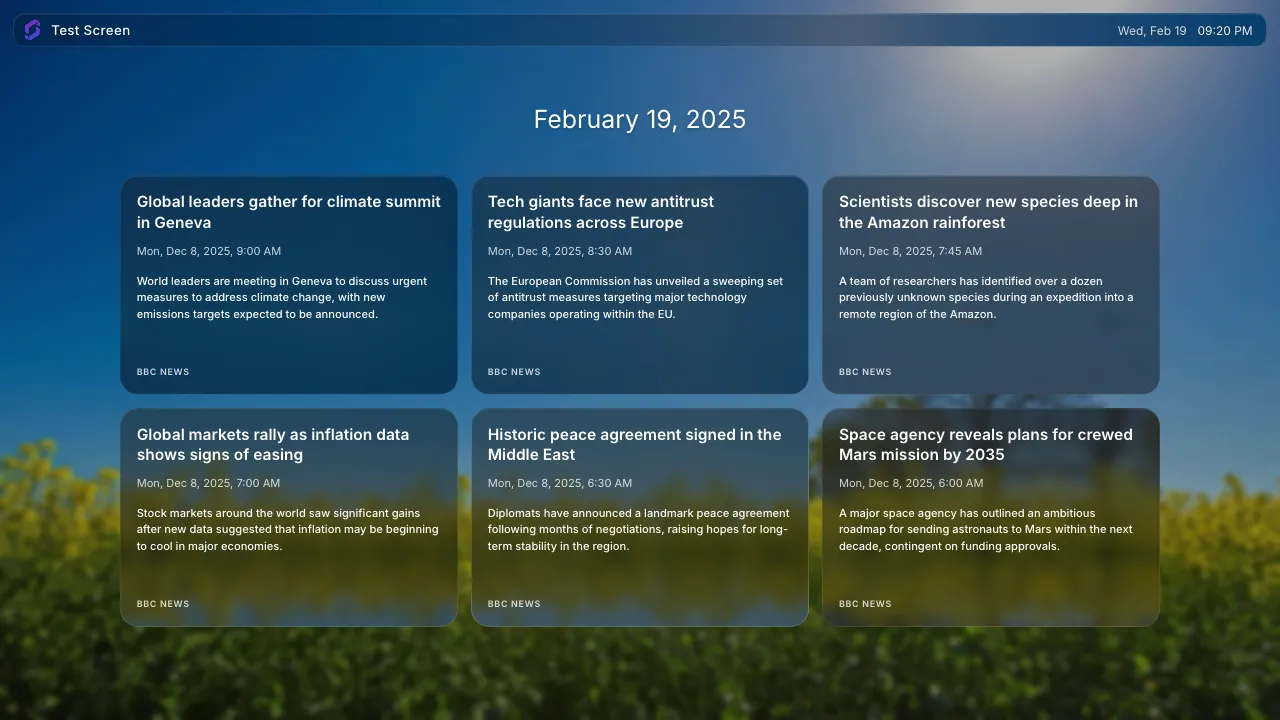
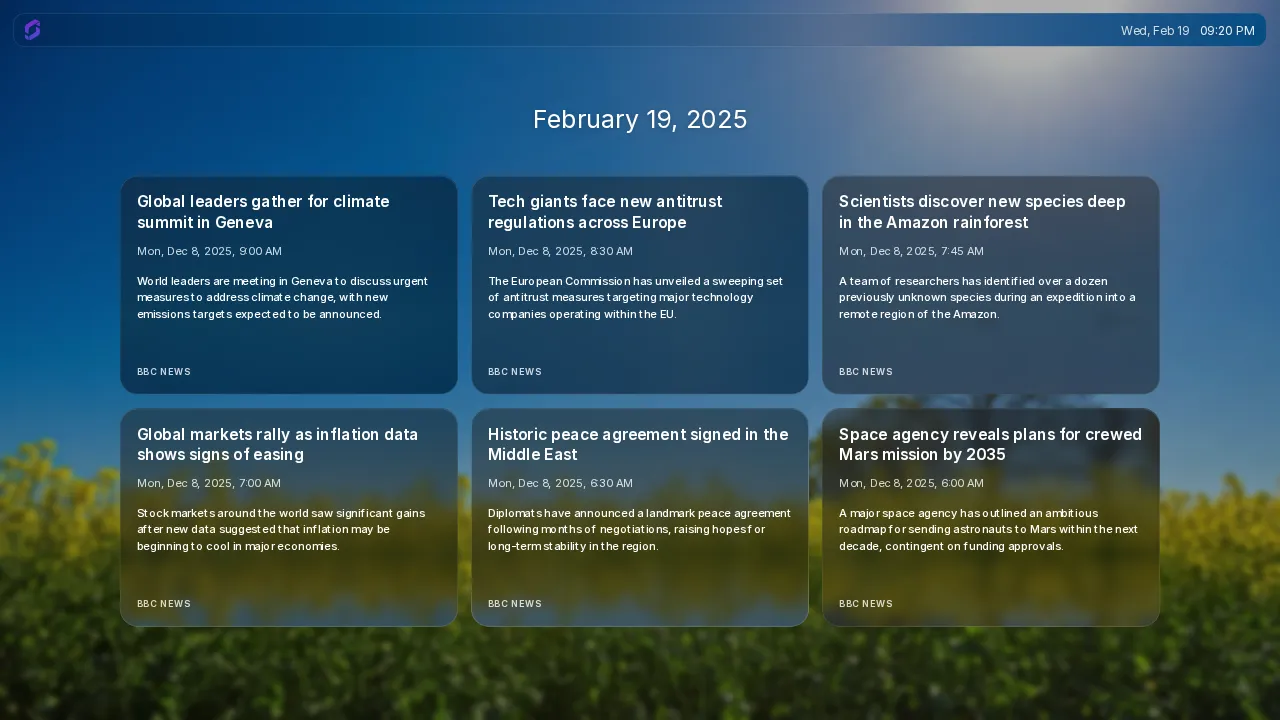
feat: adopt Tailwind CSS utility classes for styling
Rework index.html to use Tailwind utility classes instead of custom CSS
classes, keeping visual appearance and behavior unchanged. Slim the CSS
entry point down to just the design-system import. Bump
@screenly/edge-apps to ^1.3.0 for upcoming Tailwind CSS support.
Regenerate screenshots to reflect the change.

diff --git a/src/css/style.css b/src/css/style.css
@@ -1,221 +1,12 @@
-@import '@screenly/edge-apps/styles';
+/* Skip Tailwind's preflight: it resets `border` on every element (including
+   custom-element hosts like <app-header>), which strips their shadow-DOM
+   :host styling. The design system's own reset.css already normalizes
+   box-sizing/margin/padding, so preflight isn't needed here. */
+@layer theme, base, utilities;
 
-:root {
-  --card-bg:
-    linear-gradient(90deg, rgba(0, 0, 0, 0.4) 0%, rgba(0, 0, 0, 0.4) 100%),
-    linear-gradient(
-      142deg,
-      rgba(255, 255, 255, 0.08) 0%,
-      rgba(255, 255, 255, 0.02) 100%
-    );
-  --card-border: rgba(255, 255, 255, 0.1);
-  --card-radius: 1.667rem;
-  --card-padding: 1.5rem;
-  --card-gap: 1.25rem;
-  --grid-gap: 1.25rem;
-  --text-primary: #ffffff;
-  --text-muted: rgba(255, 255, 255, 0.8);
-}
-
-* {
-  box-sizing: border-box;
-}
-
-#feed-grid[hidden],
-#feed-error[hidden] {
-  display: none;
-}
-
-body {
-  margin: 0;
-  padding: 0;
-  overflow: hidden;
-  color: var(--text-primary);
-  font-family: 'Inter', system-ui, sans-serif;
-  background: url('/static/images/bg.webp') no-repeat center center;
-  background-size: cover;
-}
-
-body::before {
-  content: '';
-  position: fixed;
-  inset: 0;
-  z-index: var(--z-index-backdrop);
-  pointer-events: none;
-  background: rgba(0, 0, 0, 0.2);
-  backdrop-filter: blur(3px);
-}
-
-auto-scaler {
-  position: relative;
-  z-index: var(--z-index-content);
-}
-
-#app {
-  display: flex;
-  flex-direction: column;
-  width: 100%;
-  height: 100%;
-}
-
-.header {
-  border-radius: 1.042rem;
-  padding-right: 1.25rem;
-  background: rgba(0, 0, 0, 0.2);
-  box-shadow:
-    inset 0 0.052rem 0 rgba(255, 255, 255, 0.15),
-    inset 0 -0.052rem 0 rgba(255, 255, 255, 0.05);
-}
-
-.feed-date {
-  margin: 0;
-  padding: 5.25rem 10rem 0;
-  font-size: 2.344rem;
-  font-weight: 400;
-  line-height: 3.073rem;
-  color: var(--text-primary);
-  text-align: center;
-  text-shadow: 0 0.104rem 0.313rem rgba(0, 0, 0, 0.25);
-  white-space: nowrap;
-}
-
-.feed-grid {
-  flex: 1;
-  display: grid;
-  grid-template-columns: repeat(3, 1fr);
-  gap: var(--grid-gap);
-  padding: 3.75rem 10rem 7.5rem;
-  overflow: hidden;
-}
-
-.feed-card {
-  display: flex;
-  flex-direction: column;
-  gap: var(--card-gap);
-  padding: var(--card-padding);
-  background: var(--card-bg);
-  border: 0.75px solid var(--card-border);
-  border-radius: var(--card-radius);
-  backdrop-filter: blur(10px);
-  overflow: hidden;
-  box-shadow:
-    inset 0 0.75px 0 rgba(255, 255, 255, 0.15),
-    inset 0 -0.75px 0 rgba(255, 255, 255, 0.05);
-}
-
-.feed-card-meta {
-  display: flex;
-  flex-direction: column;
-  gap: 0.375rem;
-}
-
-.feed-card-title {
-  margin: 0;
-  font-size: 1.458rem;
-  font-weight: 700;
-  line-height: 1.929rem;
-  color: var(--text-primary);
-  display: -webkit-box;
-  -webkit-box-orient: vertical;
-  -webkit-line-clamp: 2;
-  overflow: hidden;
-}
-
-.feed-card-date {
-  margin-top: 0.5rem;
-  font-size: 1.042rem;
-  font-weight: 400;
-  line-height: 1.563rem;
-  color: var(--text-muted);
-  white-space: nowrap;
-}
-
-.feed-card-source {
-  font-size: 0.833rem;
-  font-weight: 600;
-  line-height: 1.25rem;
-  color: var(--text-muted);
-  letter-spacing: 0.08em;
-  text-transform: uppercase;
-}
-
-.feed-card-excerpt {
-  flex: 1;
-  margin: 0;
-  font-size: 1.042rem;
-  font-weight: 500;
-  line-height: 1.563rem;
-  color: var(--text-primary);
-  display: -webkit-box;
-  -webkit-box-orient: vertical;
-  -webkit-line-clamp: 4;
-  overflow: hidden;
-}
-
-.feed-error {
-  flex: 1;
-  display: flex;
-  align-items: center;
-  justify-content: center;
-  padding-bottom: 10%;
-  font-size: 1.5rem;
-  line-height: 3rem;
-  color: var(--text-muted);
-  text-align: center;
-}
-
-@media (orientation: portrait) {
-  .header {
-    padding: 0.938rem 1.25rem;
-    border-radius: 1.25rem;
-    font-size: 1.5rem;
-  }
-
-  .feed-date {
-    padding: 10rem 2.5rem 0;
-    font-size: 5.625rem;
-    line-height: 7.375rem;
-    white-space: normal;
-  }
-
-  .feed-grid {
-    flex: unset;
-    margin-top: auto;
-    grid-template-columns: 1fr;
-    grid-auto-rows: 1fr;
-    align-content: start;
-    padding: 3.75rem 2.5rem 7.5rem;
-  }
-
-  .feed-card {
-    gap: 2.5rem;
-    padding: 3.25rem;
-  }
-
-  .feed-card:nth-child(n + 4) {
-    display: none;
-  }
-
-  .feed-card-title {
-    font-size: 2rem;
-    line-height: 2.625rem;
-    -webkit-line-clamp: 2;
-  }
-
-  .feed-card-date {
-    margin-top: 0.75rem;
-    font-size: 1.5rem;
-    line-height: 2rem;
-  }
-
-  .feed-card-source {
-    font-size: 1.125rem;
-    line-height: 1.5rem;
-  }
-
-  .feed-card-excerpt {
-    font-size: 1.5rem;
-    line-height: 2rem;
-    -webkit-line-clamp: 3;
-  }
-}
+@import 'tailwindcss/theme.css' layer(theme);
+/* @screenly/edge-apps/styles goes in the `base` layer so Tailwind utilities
+   (declared after `base` above) always win the cascade, regardless of
+   selector specificity — unlayered CSS otherwise beats layered CSS. */
+@import '@screenly/edge-apps/styles' layer(base);
+@import 'tailwindcss/utilities.css' layer(utilities);

diff --git a/index.html b/index.html
@@ -6,31 +6,55 @@
     <title>RSS Reader - Screenly Edge App</title>
     <script src="screenly.js?version=1"></script>
   </head>
-  <body>
+  <body
+    class="text-white bg-[url('/static/images/bg.webp')] bg-no-repeat bg-center bg-cover before:content-[''] before:fixed before:inset-0 before:z-[var(--z-index-backdrop)] before:pointer-events-none before:bg-black/20 before:backdrop-blur-[3px]"
+  >
     <auto-scaler
       reference-width="1920"
       reference-height="1080"
       orientation="auto"
+      class="relative z-[var(--z-index-content)]"
     >
-      <div id="app">
+      <div id="app" class="flex flex-col w-full h-full">
         <app-header class="header" show-date></app-header>
 
         <template id="feed-card-template">
-          <article class="feed-card">
-            <div class="feed-card-meta">
-              <h2 class="feed-card-title"></h2>
-              <time class="feed-card-date"></time>
+          <article
+            class="feed-card flex flex-col gap-5 p-6 bg-[linear-gradient(90deg,rgba(0,0,0,0.4)_0%,rgba(0,0,0,0.4)_100%),linear-gradient(142deg,rgba(255,255,255,0.08)_0%,rgba(255,255,255,0.02)_100%)] border-[0.75px] border-white/10 rounded-[1.667rem] backdrop-blur-[10px] overflow-hidden shadow-[inset_0_0.75px_0_rgba(255,255,255,0.15),inset_0_-0.75px_0_rgba(255,255,255,0.05)] portrait:gap-10 portrait:p-[3.25rem] portrait:[&:nth-child(n+4)]:hidden"
+          >
+            <div class="feed-card-meta flex flex-col gap-1.5">
+              <h2
+                class="feed-card-title m-0 text-[1.458rem] font-bold leading-[1.929rem] text-white line-clamp-2 portrait:text-[2rem] portrait:leading-[2.625rem]"
+              ></h2>
+              <time
+                class="feed-card-date mt-2 text-[1.042rem] font-normal leading-[1.563rem] text-white/80 whitespace-nowrap portrait:mt-3 portrait:text-2xl portrait:leading-8"
+              ></time>
             </div>
-            <p class="feed-card-excerpt"></p>
-            <span class="feed-card-source"></span>
+            <p
+              class="feed-card-excerpt flex-1 m-0 text-[1.042rem] font-medium leading-[1.563rem] text-white line-clamp-4 portrait:text-2xl portrait:leading-8 portrait:line-clamp-3"
+            ></p>
+            <span
+              class="feed-card-source text-[0.833rem] font-semibold leading-5 text-white/80 tracking-[0.08em] uppercase portrait:text-lg portrait:leading-6"
+            ></span>
           </article>
         </template>
 
-        <p id="feed-date" class="feed-date"></p>
+        <p
+          id="feed-date"
+          class="feed-date m-0 pt-[5.25rem] px-40 text-[2.344rem] font-normal leading-[3.073rem] text-white text-center text-shadow whitespace-nowrap portrait:pt-40 portrait:px-10 portrait:text-[5.625rem] portrait:leading-[7.375rem] portrait:whitespace-normal"
+        ></p>
 
-        <main id="feed-grid" class="feed-grid" hidden></main>
+        <main
+          id="feed-grid"
+          class="feed-grid flex-1 grid grid-cols-3 gap-5 pt-[3.75rem] px-40 pb-[7.5rem] overflow-hidden [&[hidden]]:hidden portrait:flex-initial portrait:mt-auto portrait:grid-cols-1 portrait:auto-rows-fr portrait:content-start portrait:px-10 portrait:pt-[3.75rem] portrait:pb-[7.5rem]"
+          hidden
+        ></main>
 
-        <div id="feed-error" class="feed-error" hidden>
+        <div
+          id="feed-error"
+          class="feed-error flex-1 flex items-center justify-center pb-[10%] text-2xl leading-[3rem] text-white/80 text-center [&[hidden]]:hidden"
+          hidden
+        >
           <p>Unable to load RSS feed.<br />Retrying&hellip;</p>
         </div>
       </div>
